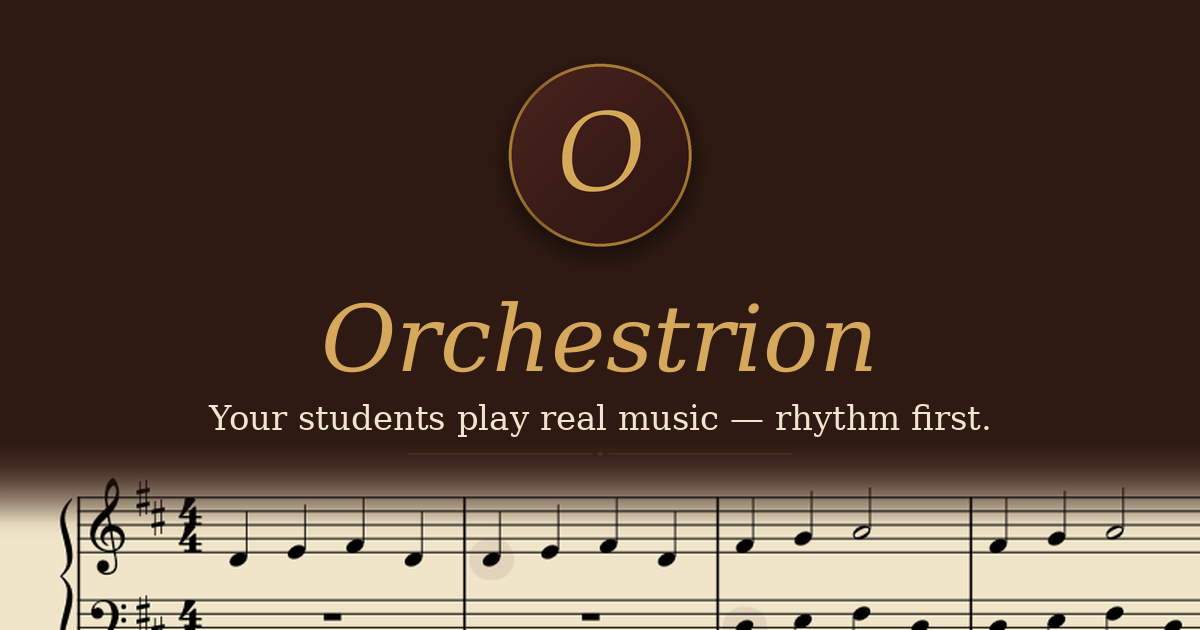
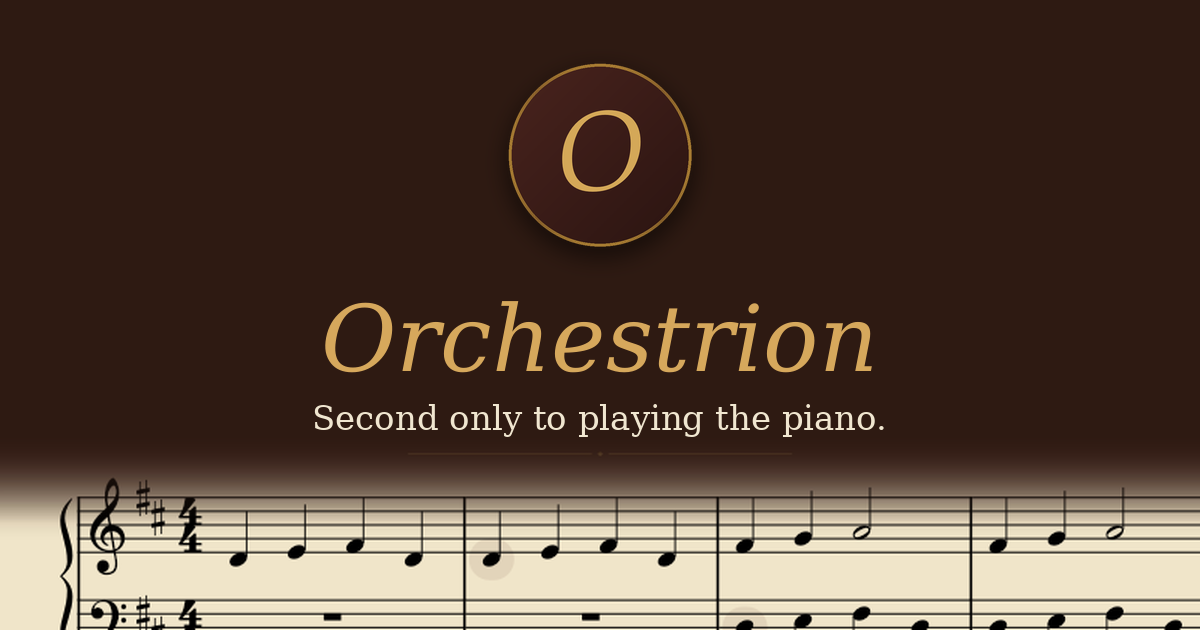
review

Changed region(s): [[0.1542, 0.6333, 0.8325, 0.6937]]

diff --git a/docs/index.html b/docs/index.html
@@ -3,13 +3,13 @@
 <head>
   <meta charset="utf-8">
   <meta name="viewport" content="width=device-width, initial-scale=1">
-  <title>Orchestrion — your students play real music, rhythm first</title>
-  <meta name="description" content="Orchestrion is a free, open-source app for music education. Students play the rhythm on any keyboard — MIDI or computer — and Orchestrion supplies the notes of a real score. Windows, macOS, Linux.">
+  <title>Orchestrion — second only to playing the piano</title>
+  <meta name="description" content="Orchestrion is a free, open-source app that turns any score into an instrument: tap the rhythm on a MIDI or computer keyboard and it plays the notes. For classrooms, kids, music lovers and bands. Windows, macOS, Linux.">
   <link rel="canonical" href="https://saintmatthieu.github.io/Orchestrion/">
   <link rel="icon" type="image/png" href="assets/favicon.png">
   <meta name="theme-color" content="#2e1a12">
-  <meta property="og:title" content="Orchestrion — your students play real music, rhythm first">
-  <meta property="og:description" content="A free, open-source app for music education: students tap the rhythm, the score supplies the pitches. Works with MuseScore and MusicXML files.">
+  <meta property="og:title" content="Orchestrion — second only to playing the piano">
+  <meta property="og:description" content="A free, open-source app: you tap the rhythm, the score supplies the pitches. Works with MuseScore and MusicXML files.">
   <meta property="og:type" content="website">
   <meta property="og:url" content="https://saintmatthieu.github.io/Orchestrion/">
   <meta property="og:image" content="https://saintmatthieu.github.io/Orchestrion/assets/og-image.png">
@@ -39,11 +39,11 @@
       color: var(--cream);
       padding: 0.9rem 0;
     }
-    header.site .wrap { display: flex; align-items: center; gap: 0.75rem; }
+    header.site .wrap { display: flex; flex-wrap: wrap; align-items: center; gap: 0.75rem; }
     header.site img { width: 2.2rem; height: 2.2rem; }
     header.site .name { font-size: 1.35rem; font-style: italic; letter-spacing: 0.02em; }
-    header.site nav { margin-left: auto; display: flex; gap: 1.25rem; }
-    header.site nav a { color: var(--gold-bright); text-decoration: none; font-size: 0.95rem; }
+    header.site nav { margin-left: auto; display: flex; flex-wrap: wrap; gap: 0.4rem 1.25rem; }
+    header.site nav a { color: var(--gold-bright); text-decoration: none; font-size: 0.95rem; white-space: nowrap; }
     header.site nav a:hover { text-decoration: underline; }
 
     .hero {
@@ -59,13 +59,17 @@
       color: var(--gold-bright);
       max-width: 40ch;
       margin: 0 auto 1rem;
+      text-wrap: balance;
     }
     .hero p.sub {
-      max-width: 56ch;
+      max-width: 70ch;
       margin: 0 auto 2.25rem;
       font-size: 1.15rem;
       color: #e8ddc8;
+      text-wrap: balance;
     }
+    /* On narrow screens the deliberate break can't fit — let text flow. */
+    @media (max-width: 44rem) { .hero p.sub br { display: none; } }
     .video-frame {
       max-width: 50rem;
       margin: 0 auto 2.5rem;
@@ -131,20 +135,34 @@
     .step h3 { font-size: 1.2rem; margin-bottom: 0.4rem; }
     .step p { color: var(--espresso-soft); }
 
-    .teachers ul { list-style: none; max-width: 44rem; margin: 0 auto; }
-    .teachers li {
+    .uses h2 { margin-bottom: 1.1rem; }
+    .uses-intro {
+      max-width: 44rem;
+      margin: 0 auto 1.6rem;
+      text-align: center;
+      color: var(--espresso-soft);
+    }
+    .uses ul { list-style: none; max-width: 44rem; margin: 0 auto; }
+    .uses li {
       padding-left: 2rem;
       position: relative;
       margin-bottom: 1.1rem;
       color: var(--espresso-soft);
     }
-    .teachers li::before {
+    .uses li::before {
       content: "♪";
       position: absolute; left: 0;
       color: var(--gold);
       font-size: 1.1rem;
     }
-    .teachers li strong { color: var(--espresso); }
+    .uses li strong { color: var(--espresso); }
+    .uses-note {
+      max-width: 44rem;
+      margin: 1.8rem auto 0;
+      text-align: center;
+      font-style: italic;
+      color: var(--espresso-soft);
+    }
 
     footer.site {
       background: var(--espresso);
@@ -165,7 +183,7 @@
     <span class="name">Orchestrion</span>
     <nav>
       <a href="#how">How it works</a>
-      <a href="#teachers">For teachers</a>
+      <a href="#uses">What for?</a>
       <a href="#download">Download</a>
       <a href="https://github.com/saintmatthieu/Orchestrion">GitHub</a>
     </nav>
@@ -174,11 +192,10 @@
 
 <section class="hero" id="download">
   <div class="wrap">
-    <h1>Your students play real music&nbsp;— rhythm&nbsp;first.</h1>
+    <h1>Second only to playing the piano.</h1>
     <p class="sub">
-      Orchestrion turns any score into an instrument. The student taps the rhythm —
-      on a MIDI keyboard or the computer keyboard — and Orchestrion plays the notes
-      of the piece, at the student's own pulse. Real repertoire, from day one.
+      You tap the rhythm — on a MIDI keyboard or the computer keyboard —<br>
+      Orchestrion plays the notes.
     </p>
 
     <!--
@@ -226,28 +243,36 @@
       <div class="step">
         <div class="num">3</div>
         <h3>Tap the rhythm</h3>
-        <p>Each tap plays the next notes of the piece. The student owns the timing;
+        <p>Each tap plays the next notes of the piece. You own the timing;
            Orchestrion takes care of the pitches.</p>
       </div>
     </div>
   </div>
 </section>
 
-<section class="band deep teachers" id="teachers">
+<section class="band deep uses" id="uses">
   <div class="wrap">
-    <h2>For music teachers</h2>
+    <h2>What for?</h2>
+    <p class="uses-intro">Orchestrion is a simple idea with many uses:</p>
     <ul>
-      <li><strong>Rhythm before note-reading.</strong> Students experience pulse, phrasing
-          and musical flow with real repertoire, before pitch accuracy becomes a hurdle.
-          Wrong-note anxiety is simply removed from the equation.</li>
-      <li><strong>Your own repertoire.</strong> Orchestrion opens MuseScore (<code>.mscz</code>)
-          and MusicXML (<code>.mxl</code>, <code>.musicxml</code>) files — use the material
+      <li><strong>In the music lesson.</strong> Let pupils focus entirely on rhythm, phrasing
+          and pulse with real repertoire — wrong-note anxiety is simply removed from the
+          equation. Orchestrion opens MuseScore (<code>.mscz</code>) and MusicXML
+          (<code>.mxl</code>, <code>.musicxml</code>) files, so it works with the material
           you already teach with.</li>
-      <li><strong>Zero setup in the classroom.</strong> The computer keyboard works out of the
-          box; a USB MIDI keyboard is detected automatically.</li>
-      <li><strong>Free and open source.</strong> GPL-3.0 licensed, no account, no ads,
-          works offline. Built on MuseScore's engraving and playback engine.</li>
+      <li><strong>For kids, at home.</strong> A playful way to get familiar with music
+          notation and sharpen a sense of rhythm — following the score is the game.</li>
+      <li><strong>For music lovers.</strong> Don't just listen to the repertoire you love —
+          play it. Discover pieces from the inside, at your own pulse, and challenge your
+          inner metronome along the way.</li>
+      <li><strong>With your band.</strong> That song where the keyboard is too central to be
+          left aside — "November Rain", "Bohemian Rhapsody", "You" — play the part yourself,
+          without years of piano lessons first.</li>
+      <li><strong>Around the piano.</strong> Karaoke-like sing-song evenings, with an
+          accompaniment that follows the singers instead of dragging them along.</li>
     </ul>
+    <p class="uses-note">Some of these scenarios will grow their own dedicated features over
+       time — the fundamentals are already here: any score, your rhythm.</p>
   </div>
 </section>
 

diff --git a/README.md b/README.md
@@ -2,15 +2,19 @@
   <img src="icons/orchestrion.png" width="120" alt="Orchestrion icon">
 </p>
 <h1 align="center">Orchestrion</h1>
-<p align="center"><em>Your students play real music — rhythm first.</em></p>
+<p align="center"><em>Second only to playing the piano.</em></p>
 
 ![Orchestrion showing the score of Frère Jacques](docs/assets/hero.png)
 
-Orchestrion turns any score into an instrument. The player taps the rhythm — on a
-MIDI keyboard or the computer keyboard — and Orchestrion plays the notes of the
-piece, at the player's own pulse. Pitch accuracy is taken out of the equation, so
-kids and beginners experience real repertoire from day one: pulse, phrasing and
-musical flow first, note-reading later.
+Orchestrion turns any score into an instrument. You tap the rhythm — on a MIDI
+keyboard or the computer keyboard — and Orchestrion plays the notes of the piece,
+at your own pulse. Pitch accuracy is taken out of the equation; what remains is
+the music itself — a secure rhythm and real nuance still make all the difference.
+
+One idea, many ways to play it: rhythm-focused practice in the music lesson, kids
+getting familiar with notation while having fun, music lovers discovering
+repertoire from the inside, covering that keyboard part your band can't do
+without, or karaoke-like sing-song around the computer.
 
 It opens MuseScore (`.mscz`) and MusicXML (`.mxl`, `.musicxml`) files and ships
 with a handful of pieces, from *Frère Jacques* to a Chopin nocturne. Built on
